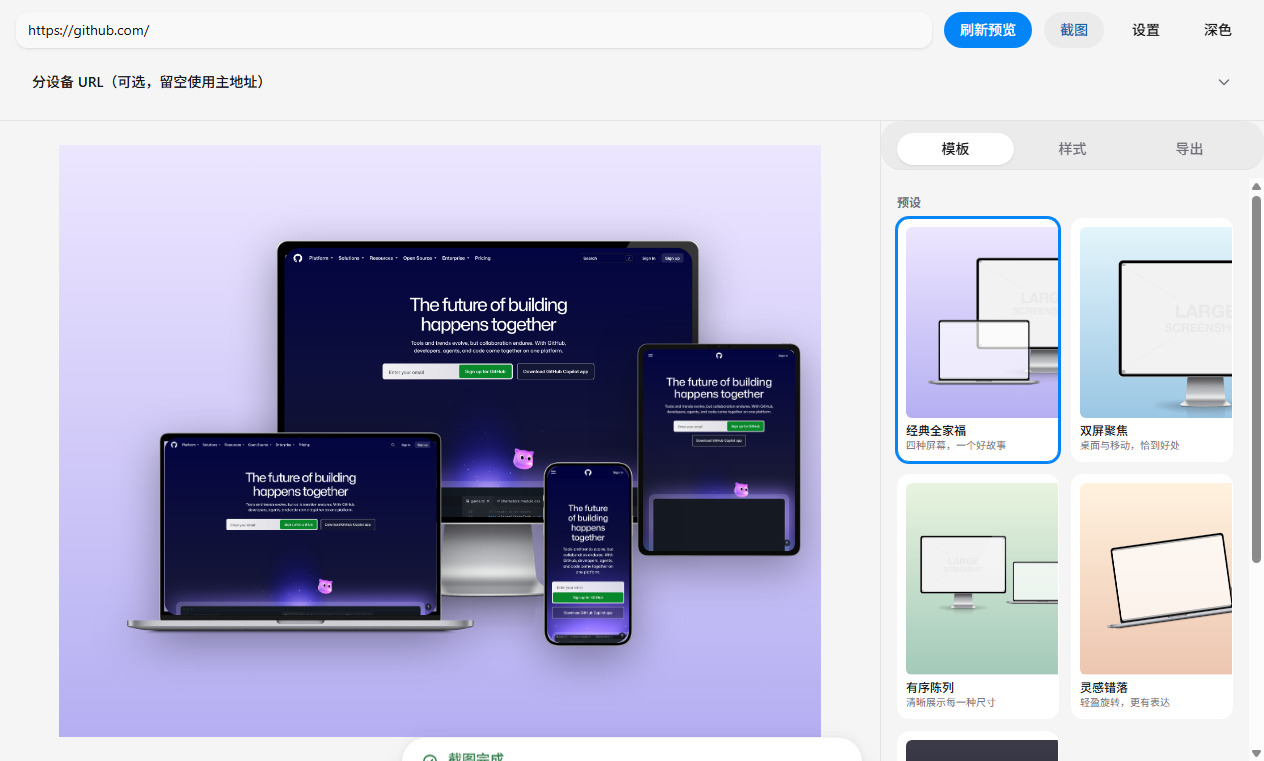
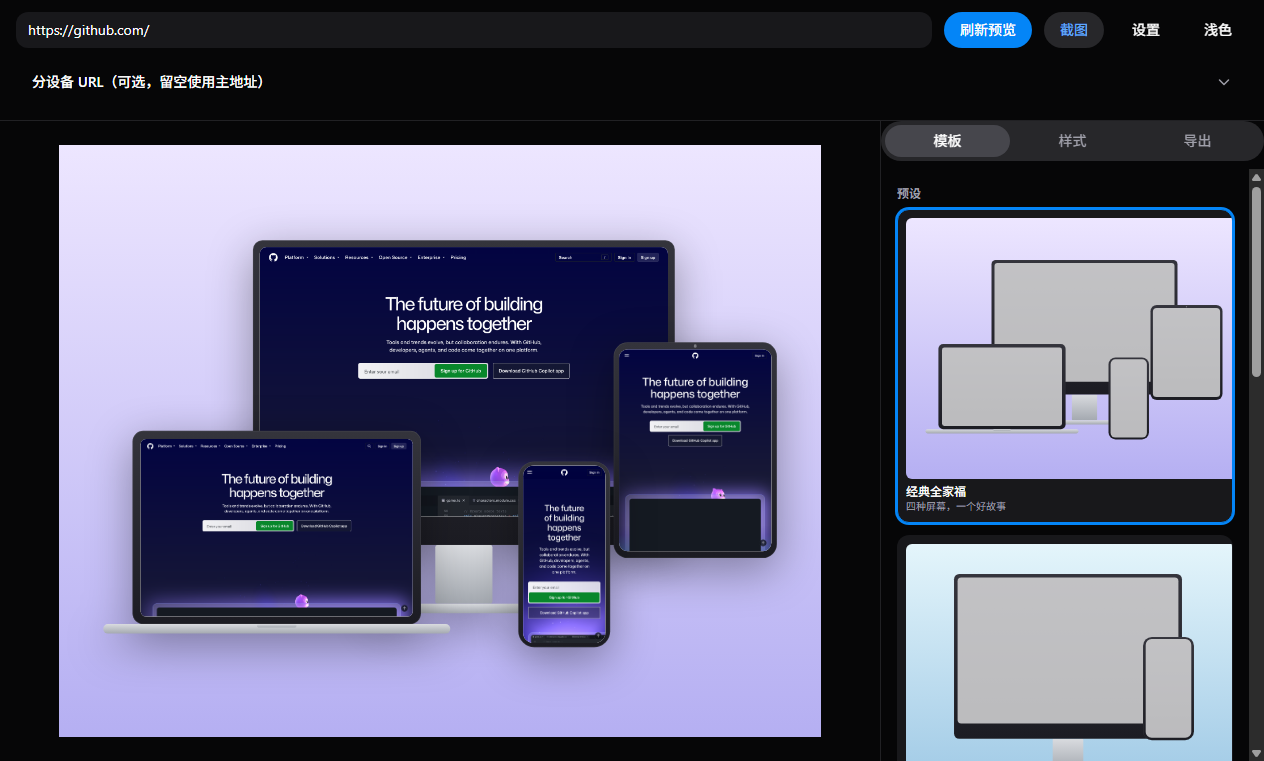
fix: 重设计应用图标，并修未打包运行不显示图标
createWindow 从未传 icon，未打包运行时 Windows 退回 Electron 默认图标（打包版由
electron-builder 烤进 exe 所以一直正常）；现在仅 dev 下指向 resources/icon.png。

新图标取产品自身的设备构图：显示器（机身/支架/底座，屏幕 mask 镂空透出底色）+
手机压在右下前方，遮挡靠让出的间隙表达而非描边，底色沿用默认背景板暮色紫。
旧标是废弃 Web 版的「P」字标，且 svg 里 scale(20) 让图形超出画布被切掉一角。
README 主界面图一并重拍（原图还是 PNG 壳时代、缩略图带水印占位）。

diff --git a/src/main/index.ts b/src/main/index.ts
@@ -32,6 +32,9 @@ function createWindow(): void {
     show: false,
     autoHideMenuBar: true,
     backgroundColor: '#171720',
+    // 打包版的图标由 electron-builder 烤进 exe；未打包运行时若不显式给 icon，
+    // Windows 会退回 Electron 默认图标（dev 下「Logo 不对」的原因）。
+    ...(!app.isPackaged ? { icon: join(__dirname, '../../resources/icon.png') } : null),
     webPreferences: {
       preload: join(__dirname, '../preload/index.js'),
       contextIsolation: true,
